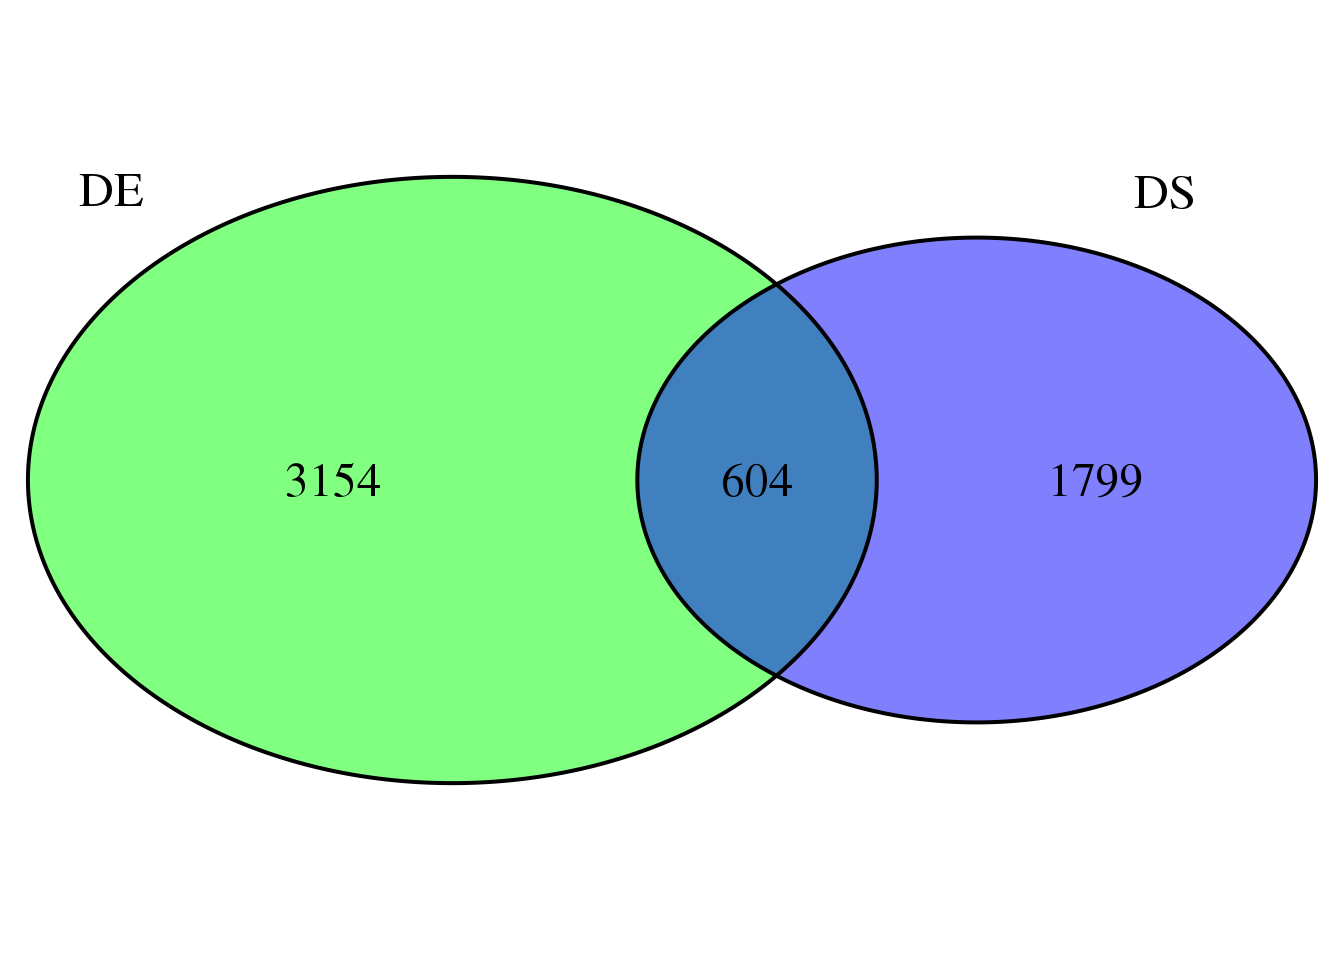
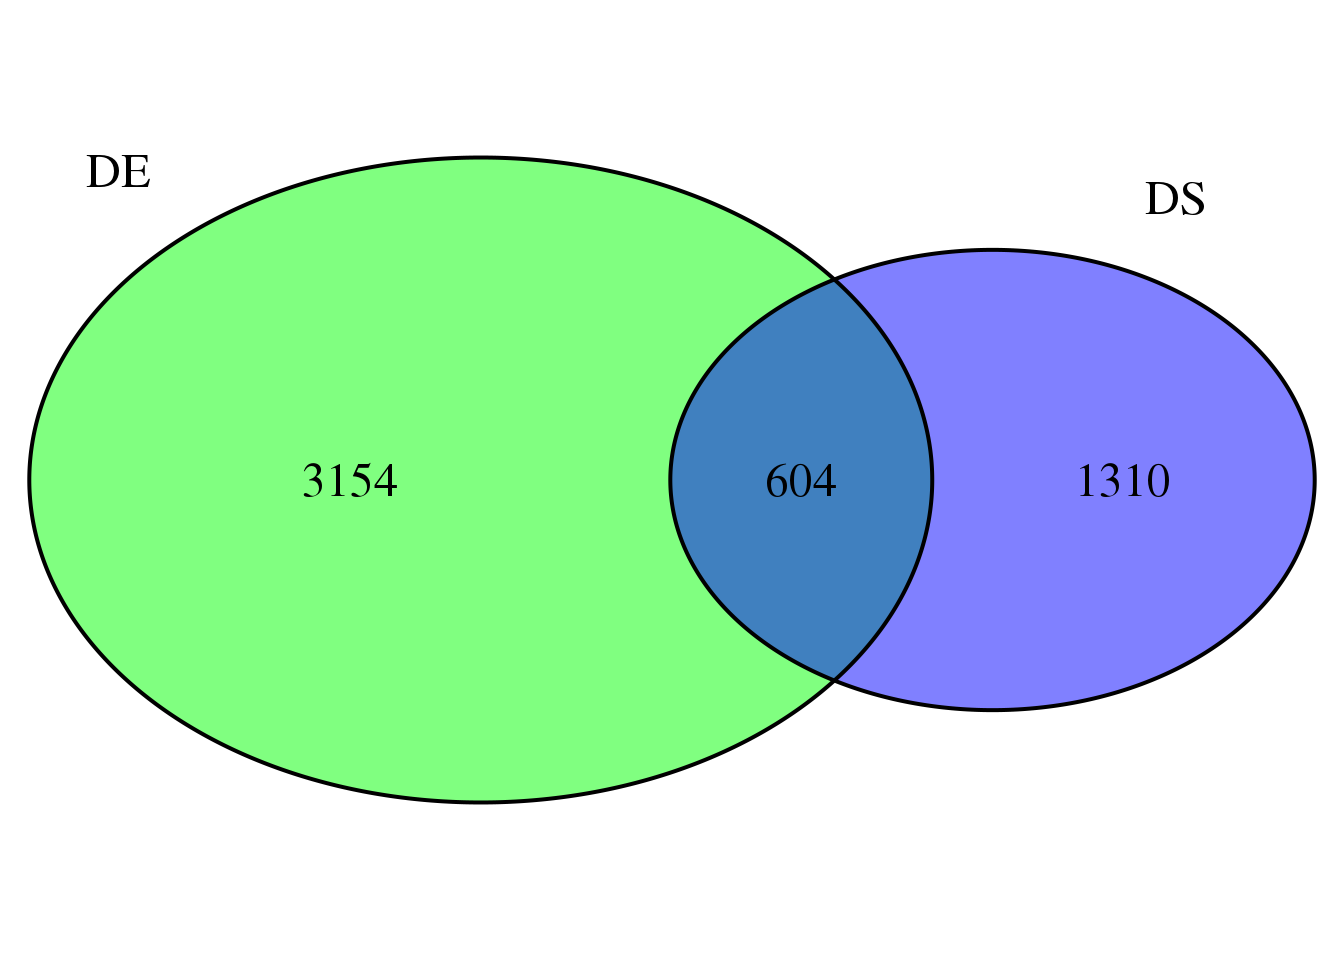
Build site.

diff --git a/docs/DEvDS.html b/docs/DEvDS.html
@@ -343,7 +343,7 @@ div.section {
 <div class="tab-content">
 <div id="summary" class="tab-pane fade in active">
 <p>
-<strong>Last updated:</strong> 2019-12-08
+<strong>Last updated:</strong> 2019-12-11
 </p>
 <p>
 <strong>Checks:</strong> <span class="glyphicon glyphicon-ok text-success" aria-hidden="true"></span> 7 <span class="glyphicon glyphicon-exclamation-sign text-danger" aria-hidden="true"></span> 0
@@ -434,10 +434,10 @@ This reproducible <a href="http://rmarkdown.rstudio.com">R Markdown</a> analysis
 <div class="panel panel-default">
 <div class="panel-heading">
 <p class="panel-title">
-<a data-toggle="collapse" data-parent="#workflowr-checks" href="#strongRepositoryversionstrongahrefhttpsgithubcombrimittlemanComparativeAPAtreef04a8042f4b698ab19e130b931b5aa8075a125a4targetblankf04a804a"> <span class="glyphicon glyphicon-ok text-success" aria-hidden="true"></span> <strong>Repository version:</strong> <a href="https://github.com/brimittleman/Comparative_APA/tree/f04a8042f4b698ab19e130b931b5aa8075a125a4" target="_blank">f04a804</a> </a>
+<a data-toggle="collapse" data-parent="#workflowr-checks" href="#strongRepositoryversionstrongahrefhttpsgithubcombrimittlemanComparativeAPAtree6b8b23ccd79b505da5c693e52243f1929eda8722targetblank6b8b23ca"> <span class="glyphicon glyphicon-ok text-success" aria-hidden="true"></span> <strong>Repository version:</strong> <a href="https://github.com/brimittleman/Comparative_APA/tree/6b8b23ccd79b505da5c693e52243f1929eda8722" target="_blank">6b8b23c</a> </a>
 </p>
 </div>
[2 lines of base64/hex data omitted]
 <div class="panel-body">
 <p>
 Great! You are using Git for version control. Tracking code development and connecting the code version to the results is critical for reproducibility. The version displayed above was the version of the Git repository at the time these results were generated. <br><br> Note that you need to be careful to ensure that all relevant files for the analysis have been committed to Git prior to generating the results (you can use <code>wflow_publish</code> or <code>wflow_git_commit</code>). workflowr only checks the R Markdown file, but you know if there are other scripts or data files that it depends on. Below is the status of the Git repository when the results were generated:
@@ -451,6 +451,7 @@ Ignored files:
     Ignored:    code/human_log/
     Ignored:    data/.DS_Store
     Ignored:    data/HC_filenames.txt.sb-4426323c-IKIs0S/
+    Ignored:    data/MapPantro6_meta.txt.sb-a5794dd2-Cskmlm/
     Ignored:    data/OppositeSpeciesMap.txt.sb-a5794dd2-mayWJf/
     Ignored:    data/RNASEQ_metadata.txt.sb-4426323c-TE4ns3/
     Ignored:    data/RNASEQ_metadata.txt.sb-51f67ae1-HXp7Gq/
@@ -464,10 +465,13 @@ Untracked files:
     Untracked:  Chimp/
     Untracked:  Human/
     Untracked:  analysis/assessReadQual.Rmd
+    Untracked:  code/._ClassifyLeafviz.sh
     Untracked:  code/._Config_chimp.yaml
     Untracked:  code/._Config_chimp_full.yaml
     Untracked:  code/._Config_human.yaml
+    Untracked:  code/._ConvertJunc2Bed.sh
     Untracked:  code/._CountNucleotides.py
+    Untracked:  code/._CrossMapChimpRNA.sh
     Untracked:  code/._DiffSplice.sh
     Untracked:  code/._DiffSplicePlots.sh
     Untracked:  code/._DiffSplicePlots_gencode.sh
@@ -487,6 +491,8 @@ Untracked files:
     Untracked:  code/._bed2SAF_gen.py
     Untracked:  code/._buildIndecpantro5
     Untracked:  code/._buildIndecpantro5.sh
+    Untracked:  code/._buildLeafviz.sh
+    Untracked:  code/._buildLeafviz_leadAnno.sh
     Untracked:  code/._buildStarIndex.sh
     Untracked:  code/._chimpChromprder.sh
     Untracked:  code/._cleanbed2saf.py
@@ -526,6 +532,7 @@ Untracked files:
     Untracked:  code/._numMultimap.py
     Untracked:  code/._overlapapaQTLPAS.sh
     Untracked:  code/._prepareCleanLiftedFC_5perc4LC.py
+    Untracked:  code/._prepareLeafvizAnno.sh
     Untracked:  code/._preparePAS4lift.py
     Untracked:  code/._primaryLift.sh
     Untracked:  code/._processhg38exons.py
@@ -567,10 +574,17 @@ Untracked files:
     Untracked:  code/._wrap_verifyBam.sh
     Untracked:  code/._writeMergecode.py
     Untracked:  code/.snakemake/
+    Untracked:  code/ClassifyLeafviz.sh
     Untracked:  code/Config_chimp.yaml
     Untracked:  code/Config_chimp_full.yaml
     Untracked:  code/Config_human.yaml
+    Untracked:  code/ConvertJunc2Bed.err
+    Untracked:  code/ConvertJunc2Bed.out
+    Untracked:  code/ConvertJunc2Bed.sh
     Untracked:  code/CountNucleotides.py
+    Untracked:  code/CrossMapChimpRNA.sh
+    Untracked:  code/CrossmapChimpRNA.err
+    Untracked:  code/CrossmapChimpRNA.out
     Untracked:  code/DiffSplice.err
     Untracked:  code/DiffSplice.out
     Untracked:  code/DiffSplice.sh
@@ -644,6 +658,12 @@ Untracked files:
     Untracked:  code/bg_to_cov.py
     Untracked:  code/buildIndecpantro5
     Untracked:  code/buildIndecpantro5.sh
+    Untracked:  code/buildLeafviz.err
+    Untracked:  code/buildLeafviz.out
+    Untracked:  code/buildLeafviz.sh
+    Untracked:  code/buildLeafviz_leadAnno.sh
+    Untracked:  code/buildLeafviz_leafanno.err
+    Untracked:  code/buildLeafviz_leafanno.out
     Untracked:  code/buildStarIndex.sh
     Untracked:  code/callPeaksYL.py
     Untracked:  code/chimpChromprder.sh
@@ -651,6 +671,8 @@ Untracked files:
     Untracked:  code/chooseAnno2SAF.py
     Untracked:  code/chromOrder.err
     Untracked:  code/chromOrder.out
+    Untracked:  code/classifyLeafviz.err
+    Untracked:  code/classifyLeafviz.out
     Untracked:  code/cleanbed2saf.py
     Untracked:  code/cluster.json
     Untracked:  code/cluster2bed.py
@@ -735,7 +757,10 @@ Untracked files:
     Untracked:  code/overlapapaQTLPAS.sh
     Untracked:  code/peak2PAS.py
     Untracked:  code/pheno2countonly.R
+    Untracked:  code/prepareAnnoLeafviz.err
+    Untracked:  code/prepareAnnoLeafviz.out
     Untracked:  code/prepareCleanLiftedFC_5perc4LC.py
+    Untracked:  code/prepareLeafvizAnno.sh
     Untracked:  code/preparePAS4lift.py
     Untracked:  code/prepare_phenotype_table.py
     Untracked:  code/primaryLift.err
@@ -761,6 +786,9 @@ Untracked files:
     Untracked:  code/runCountNucleotides.err
     Untracked:  code/runCountNucleotides.out
     Untracked:  code/runCountNucleotides.sh
+    Untracked:  code/runCountNucleotidesPantro6.err
+    Untracked:  code/runCountNucleotidesPantro6.out
+    Untracked:  code/runCountNucleotides_pantro6.sh
     Untracked:  code/runFilterNumChroms.sh
     Untracked:  code/runHumanDiffIso.sh
     Untracked:  code/runNuclearDifffIso.sh
@@ -832,6 +860,9 @@ Untracked files:
     Untracked:  data/._HC_filenames.txt
     Untracked:  data/._HC_filenames.txt.sb-4426323c-IKIs0S
     Untracked:  data/._HC_filenames.xlsx
+    Untracked:  data/._MapPantro6_meta.txt
+    Untracked:  data/._MapPantro6_meta.txt.sb-a5794dd2-Cskmlm
+    Untracked:  data/._MapPantro6_meta.xlsx
     Untracked:  data/._OppositeSpeciesMap.txt
     Untracked:  data/._OppositeSpeciesMap.txt.sb-a5794dd2-mayWJf
     Untracked:  data/._OppositeSpeciesMap.xlsx
@@ -849,6 +880,7 @@ Untracked files:
     Untracked:  data/._metadata_HCpanel.txt.sb-f4823d1e-qihGek
     Untracked:  data/._metadata_HCpanel.xlsx
     Untracked:  data/._~$RNASEQ_metadata.xlsx
+    Untracked:  data/._~$RNASEQ_metadata_stranded.xlsx
     Untracked:  data/._~$metadata_HCpanel.xlsx
     Untracked:  data/._.xlsx
     Untracked:  data/CompapaQTLpas/
@@ -861,6 +893,8 @@ Untracked files:
     Untracked:  data/EvalPantro5/
     Untracked:  data/HC_filenames.txt
     Untracked:  data/HC_filenames.xlsx
+    Untracked:  data/MapPantro6_meta.txt
+    Untracked:  data/MapPantro6_meta.xlsx
     Untracked:  data/MapStats/
     Untracked:  data/NuclearHvC/
     Untracked:  data/OppositeSpeciesMap.txt
@@ -879,12 +913,14 @@ Untracked files:
     Untracked:  data/cleanPeaks_anno/
     Untracked:  data/cleanPeaks_byspecies/
     Untracked:  data/cleanPeaks_lifted/
+    Untracked:  data/leafviz/
     Untracked:  data/liftover_files/
     Untracked:  data/metadata_HCpanel.txt
     Untracked:  data/metadata_HCpanel.xlsx
     Untracked:  data/primaryLift/
     Untracked:  data/reverseLift/
     Untracked:  data/~$RNASEQ_metadata.xlsx
+    Untracked:  data/~$RNASEQ_metadata_stranded.xlsx
     Untracked:  data/~$metadata_HCpanel.xlsx
     Untracked:  data/.xlsx
     Untracked:  output/dtPlots/
@@ -892,10 +928,12 @@ Untracked files:
 
 Unstaged changes:
     Modified:   analysis/CorrbetweenInd.Rmd
+    Modified:   analysis/OppositeMap.Rmd
     Modified:   analysis/PASnumperSpecies.Rmd
     Modified:   analysis/annotatePAS.Rmd
     Modified:   analysis/annotationInfo.Rmd
-    Modified:   analysis/diffSplicing.Rmd
+    Modified:   analysis/index.Rmd
+    Modified:   analysis/investigatePantro5.Rmd
     Modified:   analysis/liftoverPAS.Rmd
     Modified:   analysis/multiMap.Rmd
     Modified:   analysis/verifyBAM.Rmd
@@ -942,6 +980,40 @@ Message
 Rmd
 </td>
 <td>
+<a href="https://github.com/brimittleman/Comparative_APA/blob/6b8b23ccd79b505da5c693e52243f1929eda8722/analysis/DEvDS.Rmd" target="_blank">6b8b23c</a>
+</td>
+<td>
+brimittleman
+</td>
+<td>
+2019-12-11
+</td>
+<td>
+fix redundancy in splicing genes
+</td>
+</tr>
+<tr>
+<td>
+html
+</td>
+<td>
+<a href="https://rawcdn.githack.com/brimittleman/Comparative_APA/3ee838285a224d7b74f683ccc93ff29a21a4333e/docs/DEvDS.html" target="_blank">3ee8382</a>
+</td>
+<td>
+brimittleman
+</td>
+<td>
+2019-12-08
+</td>
+<td>
+Build site.
+</td>
+</tr>
+<tr>
+<td>
+Rmd
+</td>
+<td>
 <a href="https://github.com/brimittleman/Comparative_APA/blob/f04a8042f4b698ab19e130b931b5aa8075a125a4/analysis/DEvDS.Rmd" target="_blank">f04a804</a>
 </td>
 <td>
@@ -965,12 +1037,12 @@ add DE vs DS analysis
 <pre><code>Loading required package: grid</code></pre>
 <pre><code>Loading required package: futile.logger</code></pre>
 <pre class="r"><code>library(tidyverse)</code></pre>
-<pre><code>── Attaching packages ────────────────────────────────────────────────────────────────────────────────────── tidyverse 1.2.1 ──</code></pre>
+<pre><code>── Attaching packages ───────────────────────────────────────────────────────────────────────────────── tidyverse 1.2.1 ──</code></pre>
 <pre><code>✔ ggplot2 3.1.1       ✔ purrr   0.3.2  
 ✔ tibble  2.1.1       ✔ dplyr   0.8.0.1
 ✔ tidyr   0.8.3       ✔ stringr 1.3.1  
 ✔ readr   1.3.1       ✔ forcats 0.3.0  </code></pre>
-<pre><code>── Conflicts ───────────────────────────────────────────────────────────────────────────────────────── tidyverse_conflicts() ──
+<pre><code>── Conflicts ──────────────────────────────────────────────────────────────────────────────────── tidyverse_conflicts() ──
 ✖ dplyr::filter() masks stats::filter()
 ✖ dplyr::lag()    masks stats::lag()</code></pre>
 <p>I want to see if differentially expressed genes are the same genes that are differentially spliced. The differentially spliced genes are in.</p>
@@ -983,7 +1055,7 @@ add DE vs DS analysis
 <pre class="r"><code>nameID=read.table(&quot;../../genome_anotation_data/ensemble_to_genename.txt&quot;,sep=&quot;\t&quot;, header = T, stringsAsFactors = F)
 
 
-DEgenes=read.table(&quot;../data/DiffExpression/DE_genes.txt&quot;, header = F,col.names = c(&quot;Gene_stable_ID&quot;),stringsAsFactors = F) %&gt;% inner_join(nameID, by=&quot;Gene_stable_ID&quot;) %&gt;% select(Gene.name)</code></pre>
+DEgenes=read.table(&quot;../data/DiffExpression/DE_genes.txt&quot;, header = F,col.names = c(&quot;Gene_stable_ID&quot;),stringsAsFactors = F) %&gt;% inner_join(nameID, by=&quot;Gene_stable_ID&quot;) %&gt;% dplyr::select(Gene.name)</code></pre>
 <pre class="r"><code>overlap &lt;- intersect(DEgenes$Gene.name, DSgenes$DS) 
 DE.unique &lt;- setdiff(DEgenes$Gene.name, DSgenes$DS) # n 1st NOT 2nd
 DS.unique &lt;- setdiff(DSgenes$DS, DEgenes$Gene.name)
@@ -1000,6 +1072,43 @@ venn.plot &lt;- draw.pairwise.venn(area1 = length(DEgenes$Gene.name),
                            cat.pos = c(320, 25),
                            cat.dist = .05) </code></pre>
 <p><img src="figure/DEvDS.Rmd/unnamed-chunk-5-1.png" width="672" style="display: block; margin: auto;" /></p>
+<p>
+<button type="button" class="btn btn-default btn-xs btn-workflowr btn-workflowr-fig" data-toggle="collapse" data-target="#fig-unnamed-chunk-5-1">
+Past versions of unnamed-chunk-5-1.png
+</button>
+</p>
+<div id="fig-unnamed-chunk-5-1" class="collapse">
+<div class="table-responsive">
+<table class="table table-condensed table-hover">
+<thead>
+<tr>
+<th>
+Version
+</th>
+<th>
+Author
+</th>
+<th>
+Date
+</th>
+</tr>
+</thead>
+<tbody>
+<tr>
+<td>
+<a href="https://github.com/brimittleman/Comparative_APA/blob/3ee838285a224d7b74f683ccc93ff29a21a4333e/docs/figure/DEvDS.Rmd/unnamed-chunk-5-1.png" target="_blank">3ee8382</a>
+</td>
+<td>
+brimittleman
+</td>
+<td>
+2019-12-08
+</td>
+</tr>
+</tbody>
+</table>
+</div>
+</div>
 <br>
 <p>
 <button type="button" class="btn btn-default btn-workflowr btn-workflowr-sessioninfo" data-toggle="collapse" data-target="#workflowr-sessioninfo" style="display: block;">

diff --git a/docs/diffSplicing.html b/docs/diffSplicing.html
@@ -344,7 +344,7 @@ div.section {
 <div class="tab-content">
 <div id="summary" class="tab-pane fade in active">
 <p>
-<strong>Last updated:</strong> 2019-12-10
+<strong>Last updated:</strong> 2019-12-11
 </p>
 <p>
 <strong>Checks:</strong> <span class="glyphicon glyphicon-ok text-success" aria-hidden="true"></span> 7 <span class="glyphicon glyphicon-exclamation-sign text-danger" aria-hidden="true"></span> 0
@@ -435,10 +435,10 @@ This reproducible <a href="http://rmarkdown.rstudio.com">R Markdown</a> analysis
 <div class="panel panel-default">
 <div class="panel-heading">
 <p class="panel-title">
-<a data-toggle="collapse" data-parent="#workflowr-checks" href="#strongRepositoryversionstrongahrefhttpsgithubcombrimittlemanComparativeAPAtree28c77be475f308875cc51732dc2f5f0cba13c0aftargetblank28c77bea"> <span class="glyphicon glyphicon-ok text-success" aria-hidden="true"></span> <strong>Repository version:</strong> <a href="https://github.com/brimittleman/Comparative_APA/tree/28c77be475f308875cc51732dc2f5f0cba13c0af" target="_blank">28c77be</a> </a>
+<a data-toggle="collapse" data-parent="#workflowr-checks" href="#strongRepositoryversionstrongahrefhttpsgithubcombrimittlemanComparativeAPAtree6b8b23ccd79b505da5c693e52243f1929eda8722targetblank6b8b23ca"> <span class="glyphicon glyphicon-ok text-success" aria-hidden="true"></span> <strong>Repository version:</strong> <a href="https://github.com/brimittleman/Comparative_APA/tree/6b8b23ccd79b505da5c693e52243f1929eda8722" target="_blank">6b8b23c</a> </a>
 </p>
 </div>
[2 lines of base64/hex data omitted]
 <div class="panel-body">
 <p>
 Great! You are using Git for version control. Tracking code development and connecting the code version to the results is critical for reproducibility. The version displayed above was the version of the Git repository at the time these results were generated. <br><br> Note that you need to be careful to ensure that all relevant files for the analysis have been committed to Git prior to generating the results (you can use <code>wflow_publish</code> or <code>wflow_git_commit</code>). workflowr only checks the R Markdown file, but you know if there are other scripts or data files that it depends on. Below is the status of the Git repository when the results were generated:
@@ -981,6 +981,40 @@ Message
 Rmd
 </td>
 <td>
+<a href="https://github.com/brimittleman/Comparative_APA/blob/6b8b23ccd79b505da5c693e52243f1929eda8722/analysis/diffSplicing.Rmd" target="_blank">6b8b23c</a>
+</td>
+<td>
+brimittleman
+</td>
+<td>
+2019-12-11
+</td>
+<td>
+fix redundancy in splicing genes
+</td>
+</tr>
+<tr>
+<td>
+html
+</td>
+<td>
+<a href="https://rawcdn.githack.com/brimittleman/Comparative_APA/8ae44d54c5872dc6fa7b493ee456dca2e338052b/docs/diffSplicing.html" target="_blank">8ae44d5</a>
+</td>
+<td>
+brimittleman
+</td>
+<td>
+2019-12-10
+</td>
+<td>
+Build site.
+</td>
+</tr>
+<tr>
+<td>
+Rmd
+</td>
+<td>
 <a href="https://github.com/brimittleman/Comparative_APA/blob/28c77be475f308875cc51732dc2f5f0cba13c0af/analysis/diffSplicing.Rmd" target="_blank">28c77be</a>
 </td>
 <td>
@@ -1488,6 +1522,8 @@ brimittleman
 nrow(genes)</code></pre>
 <pre><code>[1] 1839</code></pre>
 <pre class="r"><code>write.table(genes, &quot;../data/DiffSplice_liftedJunc/orderedGenelist.txt&quot;, col.names = F, row.names = F, quote = F)</code></pre>
+<p>Fixlist:</p>
+<pre class="bash"><code>tr , &#39;\n&#39; &lt; ../data/DiffSplice_liftedJunc/orderedGenelist.txt &gt; ../data/DiffSplice_liftedJunc/orderedGeneListFixed.txt</code></pre>
 <p>Build leafviz</p>
 <pre class="bash"><code>sbatch prepareeafvizAnno.sh
 sbatch buildLeafviz.sh
